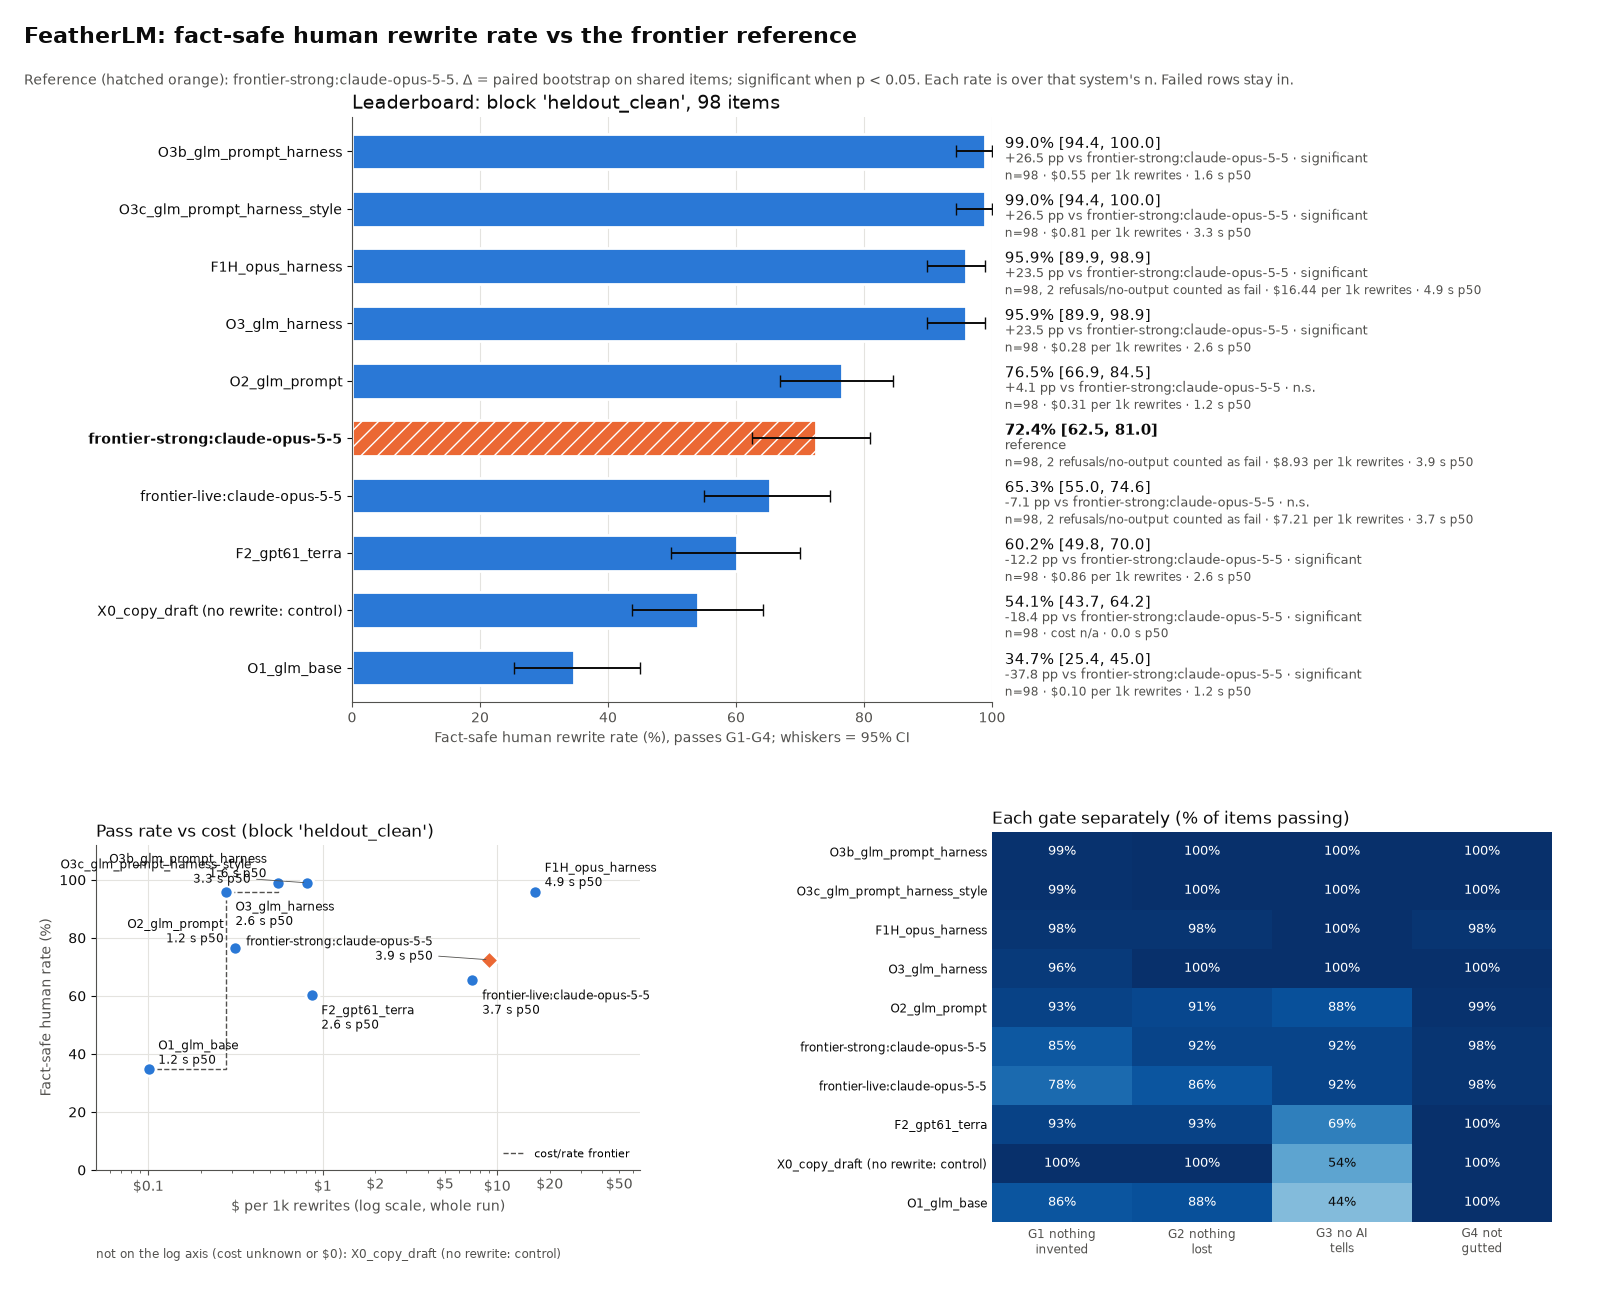
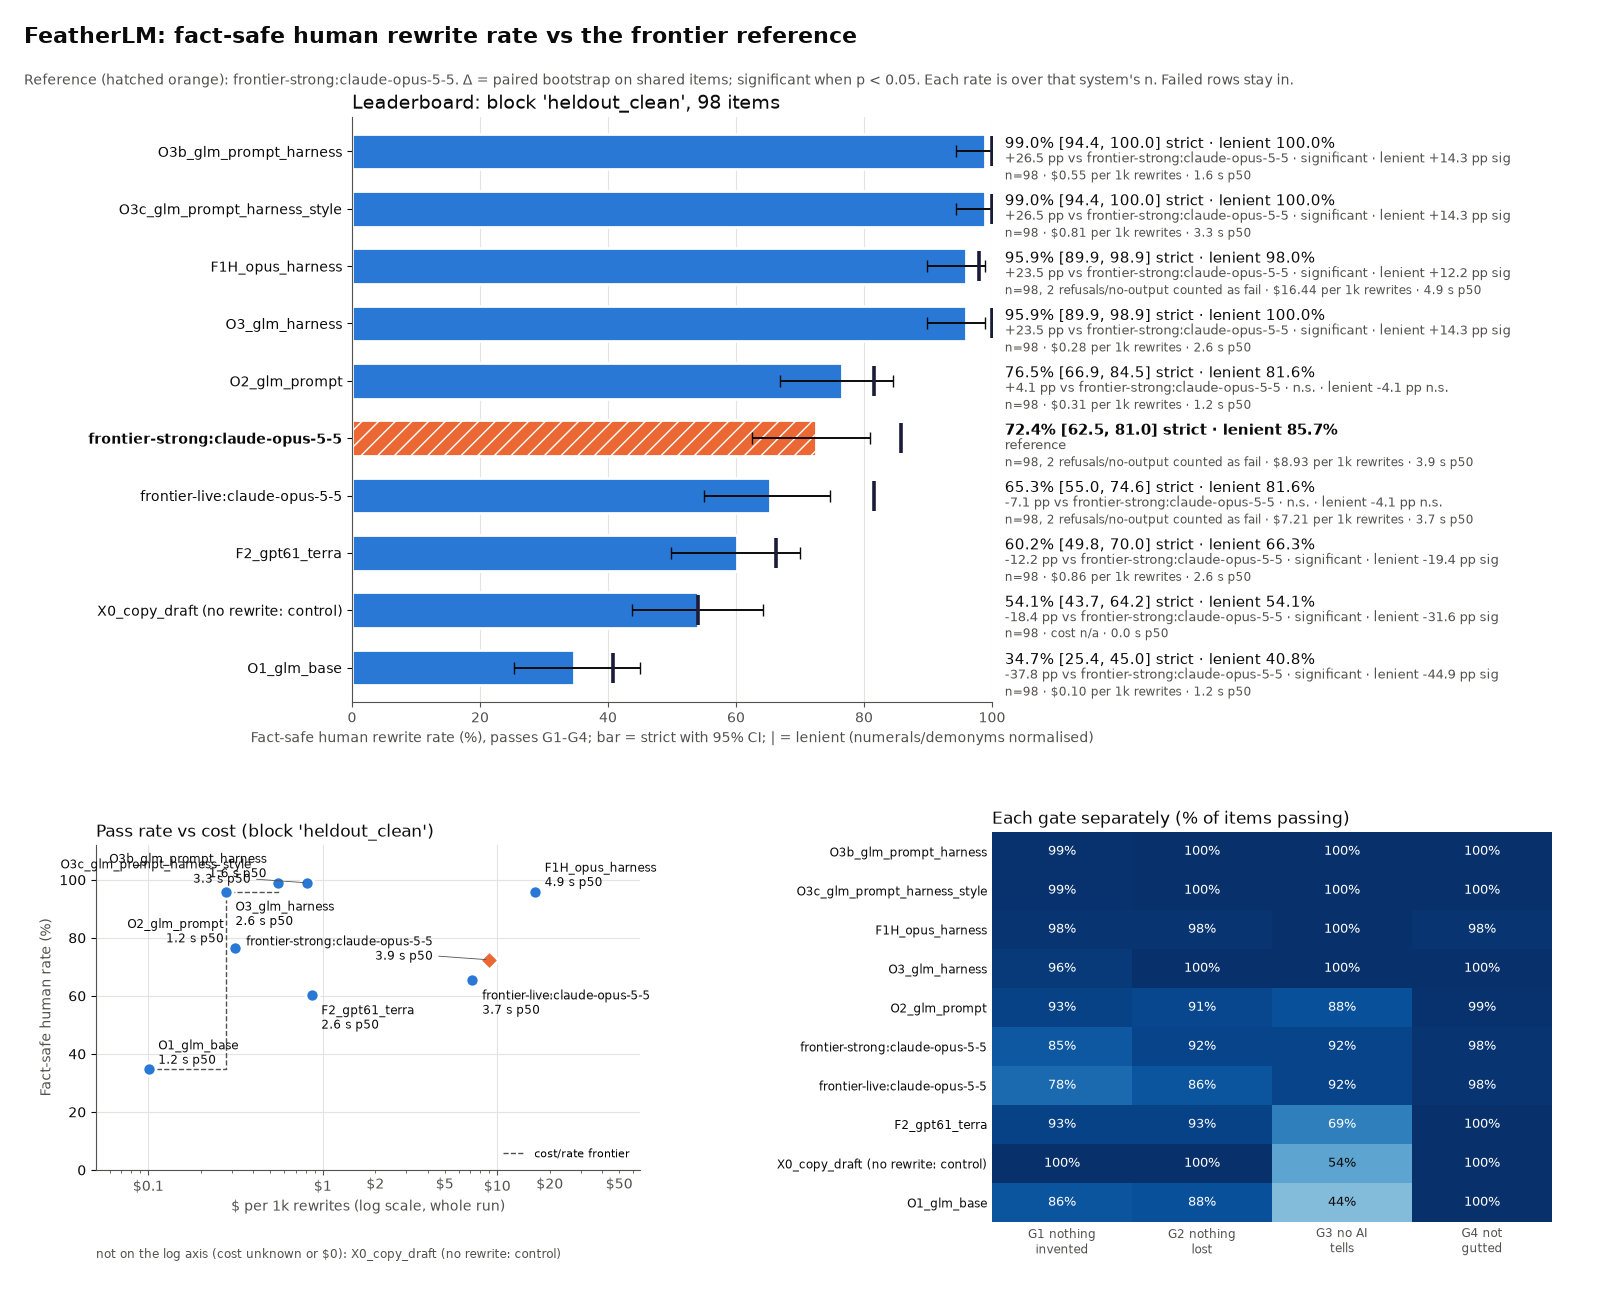
eval: leaderboard shows strict and lenient fact-safe rates
Bar = strict rate with 95% CI; a dark tick marks the lenient rate
(numerals/demonyms normalised, from summary.pass_lenient). Row text
gives both rates and both deltas vs the reference with significance.

diff --git a/hackathon/eval/plot.py b/hackathon/eval/plot.py
@@ -30,6 +30,7 @@ BLOCKS = ("all", "main", "heldout", "heldout_clean", "dev", "trick", "real")
 # colorblind-safe pair from the dataviz reference palette (blue / orange); text stays in ink, never series color
 SYS, REF = "#2a78d6", "#eb6834"
 INK, INK2, GRID = "#0b0b0b", "#52514e", "#e4e3df"
+LEN = "#1b1b3a"  # lenient tick: dark navy, reads on both the blue and the hatched orange bar
 
 
 def _num(v) -> float | None:
@@ -121,6 +122,18 @@ def coverage_note(entry: dict, n_items) -> str:
     return note
 
 
+def lenient_bits(entry: dict) -> tuple[float | None, str, str]:
+    """(lenient rate %, ' · lenient 98.0%', ' · lenient +13.2 pp sig') from summary.pass_lenient; blanks if absent."""
+    p = ((entry.get("summary") or {}).get("pass_lenient") or {})
+    r = _num(p.get("rate"))
+    if r is None:
+        return None, "", ""
+    v = ((entry.get("vs_reference") or {}).get("pass_lenient") or {})
+    d = _num(v.get("diff"))
+    delta = "" if d is None else f" · lenient {100*d:+.1f} pp " + ("sig" if v.get("significant") else "n.s.")
+    return 100 * r, f" · lenient {100*r:.1f}%", delta
+
+
 def cost_note(meta: dict) -> str:
     """'$8.93 per 1k rewrites · 3.9 s p50' from a top-level systems[] entry; 'cost n/a' when unknown or $0."""
     cost = _num(meta.get("cost_per_1k_usd"))
@@ -129,7 +142,9 @@ def cost_note(meta: dict) -> str:
     return note + (f" · {p50 / 1000:.1f} s p50" if p50 is not None else "")
 
 
-def _leaderboard(ax, rows: list[tuple], name: str, n_items, notes: dict[str, str]) -> None:
+def _leaderboard(ax, rows: list[tuple], name: str, n_items, notes: dict[str, str],
+                 lenient: dict[str, tuple] | None = None) -> None:
+    lenient = lenient or {}
     y = list(range(len(rows)))[::-1]  # first (best) row on top
     for yi, (lab, r, lo, hi, note, is_ref) in zip(y, rows):
         if math.isnan(r):
@@ -138,21 +153,26 @@ def _leaderboard(ax, rows: list[tuple], name: str, n_items, notes: dict[str, str
                 edgecolor="white", linewidth=2, zorder=2)
         ax.errorbar(r, yi, xerr=[[max(0, r - lo)], [max(0, hi - r)]], fmt="none", ecolor=INK, elinewidth=1.4,
                     capsize=4, zorder=3)
+        lr = (lenient.get(lab) or (None,))[0]
+        if lr is not None:  # lenient rate as a tall tick across the bar
+            ax.plot([lr], [yi], marker="|", markersize=22, markeredgewidth=2.6, color=LEN, zorder=4)
     ax.set_yticks(y, [r[0] for r in rows])
     for t, row in zip(ax.get_yticklabels(), rows):
         t.set_fontweight("bold" if row[5] else "normal")
     ax.set_xlim(0, 100)
     pad = max(0.0, (6 - len(rows)) / 2)  # keep bars thin when there are few systems
     ax.set_ylim(-0.6 - pad, len(rows) - 0.4 + pad)
-    ax.set_xlabel("Fact-safe human rewrite rate (%), passes G1-G4; whiskers = 95% CI")
+    ax.set_xlabel("Fact-safe human rewrite rate (%), passes G1-G4; bar = strict with 95% CI"
+                  + ("; | = lenient (numerals/demonyms normalised)" if lenient else ""))
     ax.set_title(f"Leaderboard: block '{name}', {n_items} items", loc="left", fontsize=14, color=INK)
     tr = blended_transform_factory(ax.transAxes, ax.transData)
     below = offset_copy(tr, fig=ax.figure, y=-13, units="points")  # third line: coverage
     for yi, (lab, r, lo, hi, note, is_ref) in zip(y, rows):
-        head = "n/a" if math.isnan(r) else f"{r:.1f}% [{lo:.1f}, {hi:.1f}]"
+        _, lhead, ldelta = lenient.get(lab) or (None, "", "")
+        head = "n/a" if math.isnan(r) else f"{r:.1f}% [{lo:.1f}, {hi:.1f}]" + (" strict" if lhead else "") + lhead
         ax.text(1.02, yi, head, transform=tr, va="bottom", fontsize=10.5,
                 color=INK, fontweight="bold" if is_ref else "normal")
-        ax.text(1.02, yi, note, transform=tr, va="top", fontsize=9.5, color=INK2)
+        ax.text(1.02, yi, note + ldelta, transform=tr, va="top", fontsize=9.5, color=INK2)
         ax.text(1.02, yi, notes.get(lab, ""), transform=below, va="top", fontsize=8.5, color=INK2)
     ax.grid(axis="x", color=GRID, zorder=0)
     ax.set_axisbelow(True)
@@ -239,7 +259,8 @@ def render(res: dict, name: str, out: str) -> str:
     meta = {s.get("label"): s for s in res.get("systems") or []}
     notes = {e.get("label"): coverage_note(e, b.get("n_items", "?")) + " · " + cost_note(meta.get(e.get("label")) or {})
              for e in b["systems"]}
-    _leaderboard(fig.add_axes((0.22, 0.46, 0.40, 0.45)), rows, name, b.get("n_items", "?"), notes)
+    lenient = {e.get("label"): lenient_bits(e) for e in b["systems"] if lenient_bits(e)[0] is not None}
+    _leaderboard(fig.add_axes((0.22, 0.46, 0.40, 0.45)), rows, name, b.get("n_items", "?"), notes, lenient)
     _pareto(fig.add_axes((0.06, 0.10, 0.34, 0.25)), points, no_cost, name)
     _gates(fig.add_axes((0.62, 0.06, 0.35, 0.30)), *gate_rows(b))
     fig.suptitle("FeatherLM: fact-safe human rewrite rate vs the frontier reference", x=0.015, ha="left",

diff --git a/hackathon/eval/test_plot.py b/hackathon/eval/test_plot.py
@@ -62,6 +62,15 @@ class TestNotes(unittest.TestCase):
         self.assertEqual(pl.coverage_note(part, 250), "n=130 of 250 items only; Δ on 130 shared items")
         self.assertEqual(pl.coverage_note(_entry("Q", 0.2), 100), "n=100")
 
+    def test_lenient_bits(self):
+        e = _entry("O", 0.9, _vs(0.25, 0.001))
+        self.assertEqual(pl.lenient_bits(e), (None, "", ""))
+        e["summary"]["pass_lenient"] = _rate(0.98)
+        e["vs_reference"]["pass_lenient"] = _vs(0.132, 0.001)
+        r, head, delta = pl.lenient_bits(e)
+        self.assertAlmostEqual(r, 98.0)
+        self.assertEqual((head, delta), (" · lenient 98.0%", " · lenient +13.2 pp sig"))
+
     def test_cost_note(self):
         self.assertEqual(pl.cost_note({"cost_per_1k_usd": 8.925, "latency_ms": {"p50": 3867.0}}),
                          "$8.93 per 1k rewrites · 3.9 s p50")
